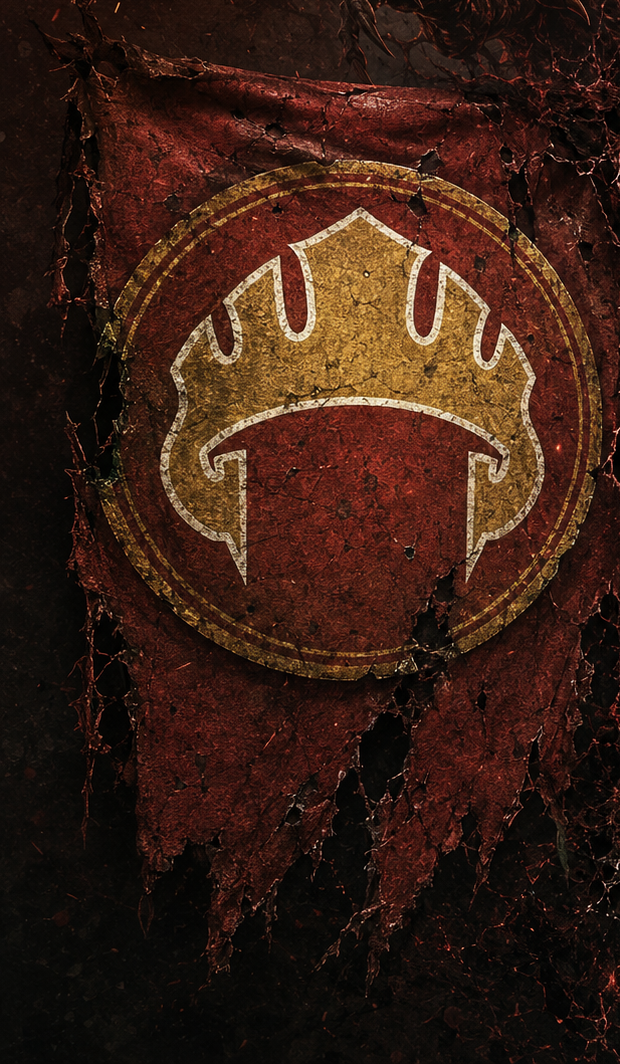
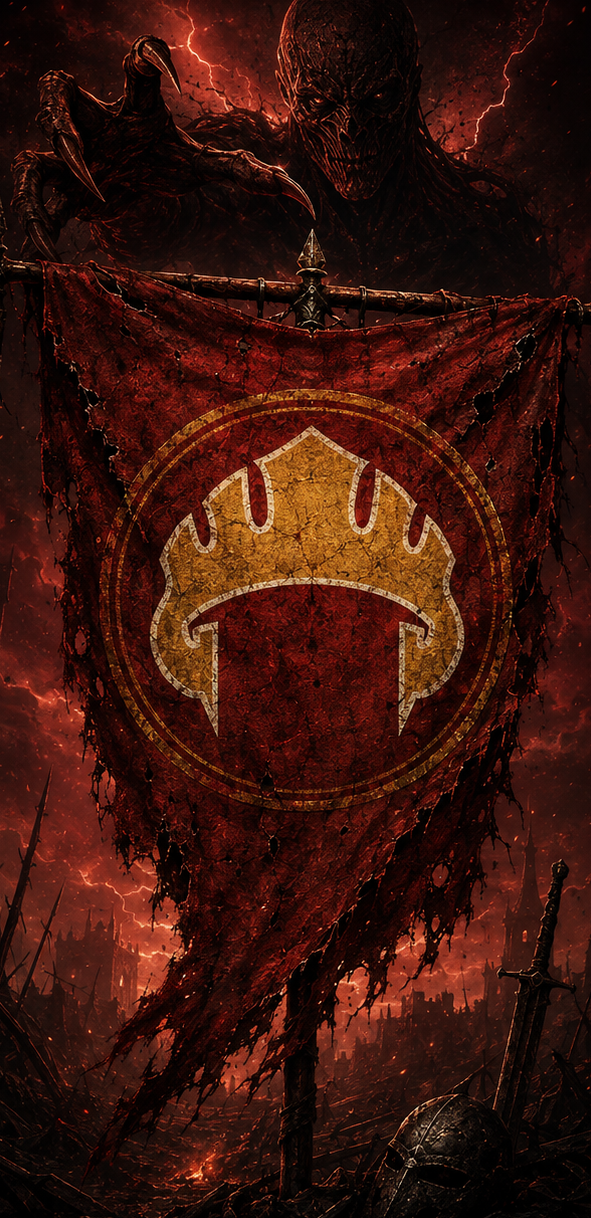
Atualiza bandeiras para versao com braso hasteado, sem borda branca; remove bg generico

diff --git a/src/pages/CharacterDetail.tsx b/src/pages/CharacterDetail.tsx
@@ -84,9 +84,11 @@ export default function CharacterDetailPage() {
         {c.allies && tab === 'allies' && (
           <div className="flex flex-col sm:flex-row gap-4 items-center sm:items-start">
             {c.allies_image && (
-              <div className="w-40 h-40 sm:w-48 sm:h-48 rounded-lg bg-[var(--sidebar)] border-2 border-[var(--accent)] shadow-lg shrink-0 mx-auto flex items-center justify-center overflow-hidden">
-                <img src={`${import.meta.env.BASE_URL}${c.allies_image}`} alt="Emblema" className="w-full h-full object-contain p-2" />
-              </div>
+              <img
+                src={`${import.meta.env.BASE_URL}${c.allies_image}`}
+                alt="Emblema"
+                className="w-40 h-40 sm:w-48 sm:h-48 rounded-lg object-cover border-2 border-[var(--accent)] shadow-lg shrink-0 mx-auto"
+              />
             )}
             <p className="text-sm whitespace-pre-line leading-relaxed flex-1">{c.allies}</p>
           </div>
